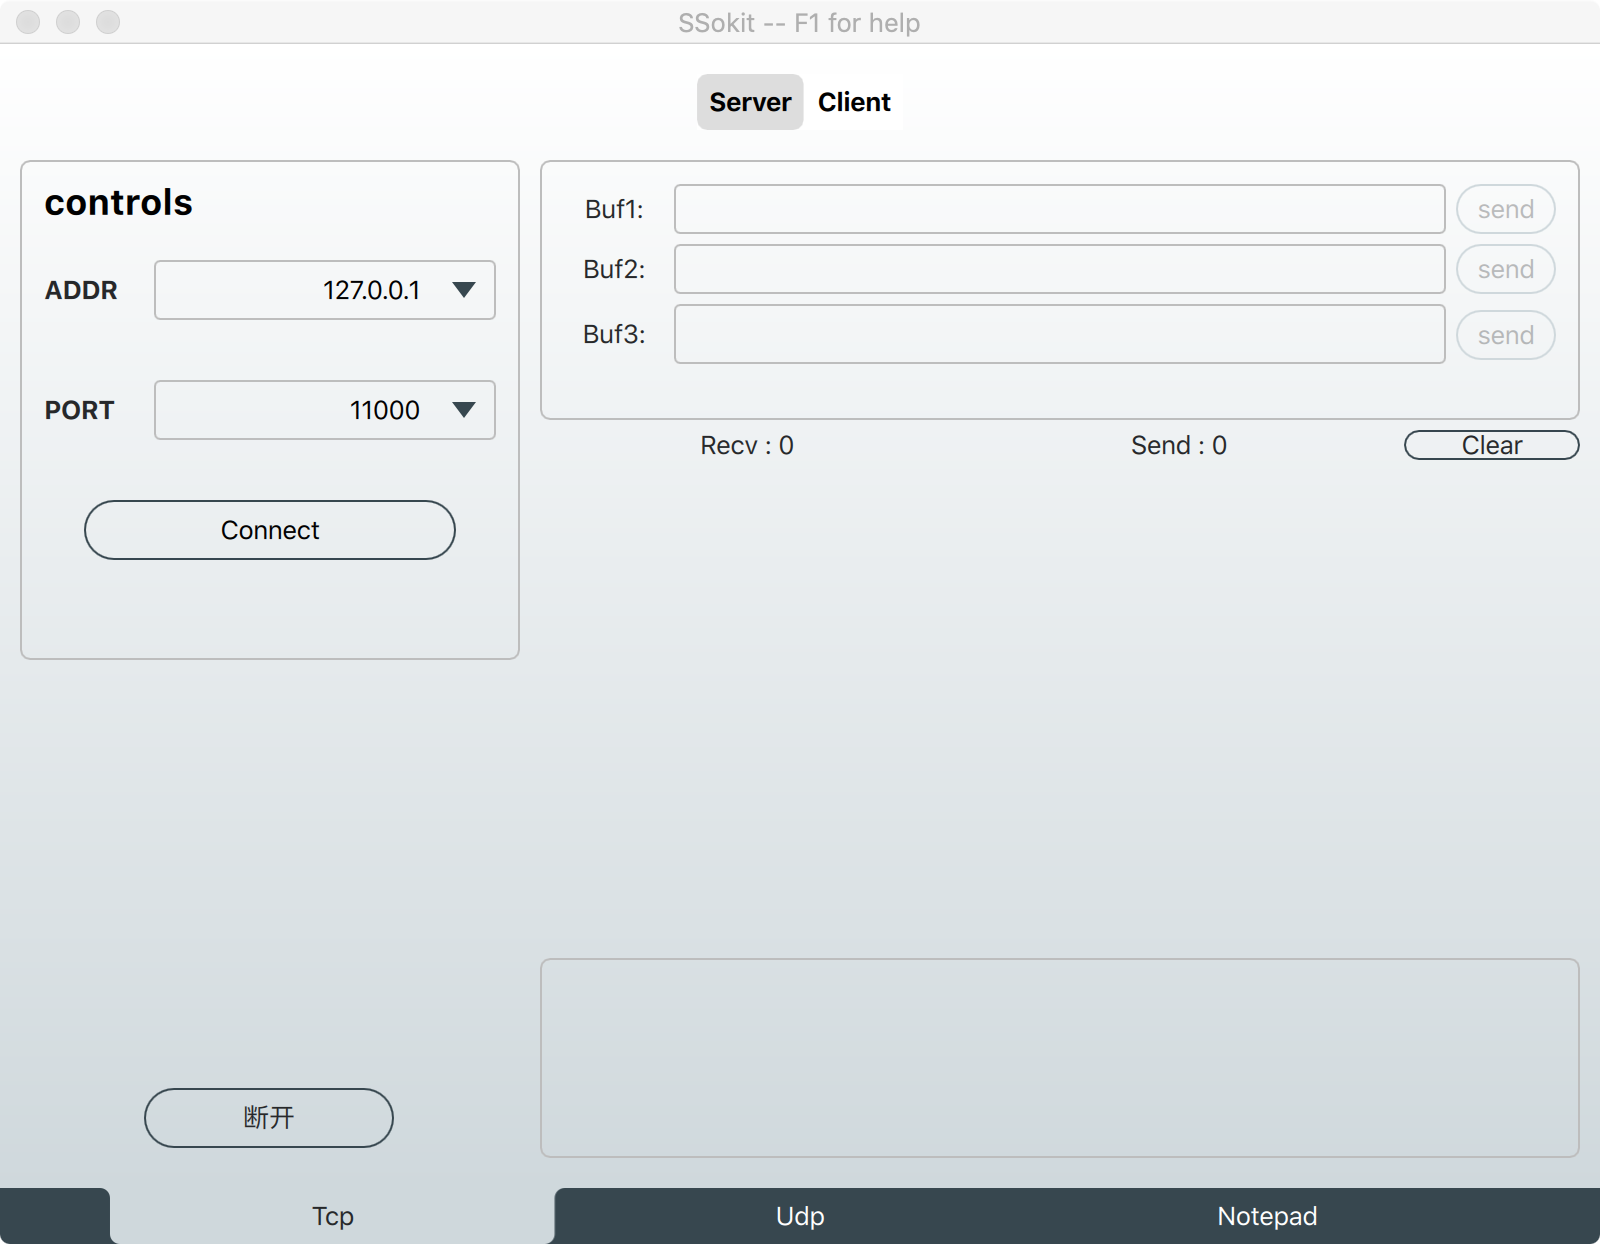
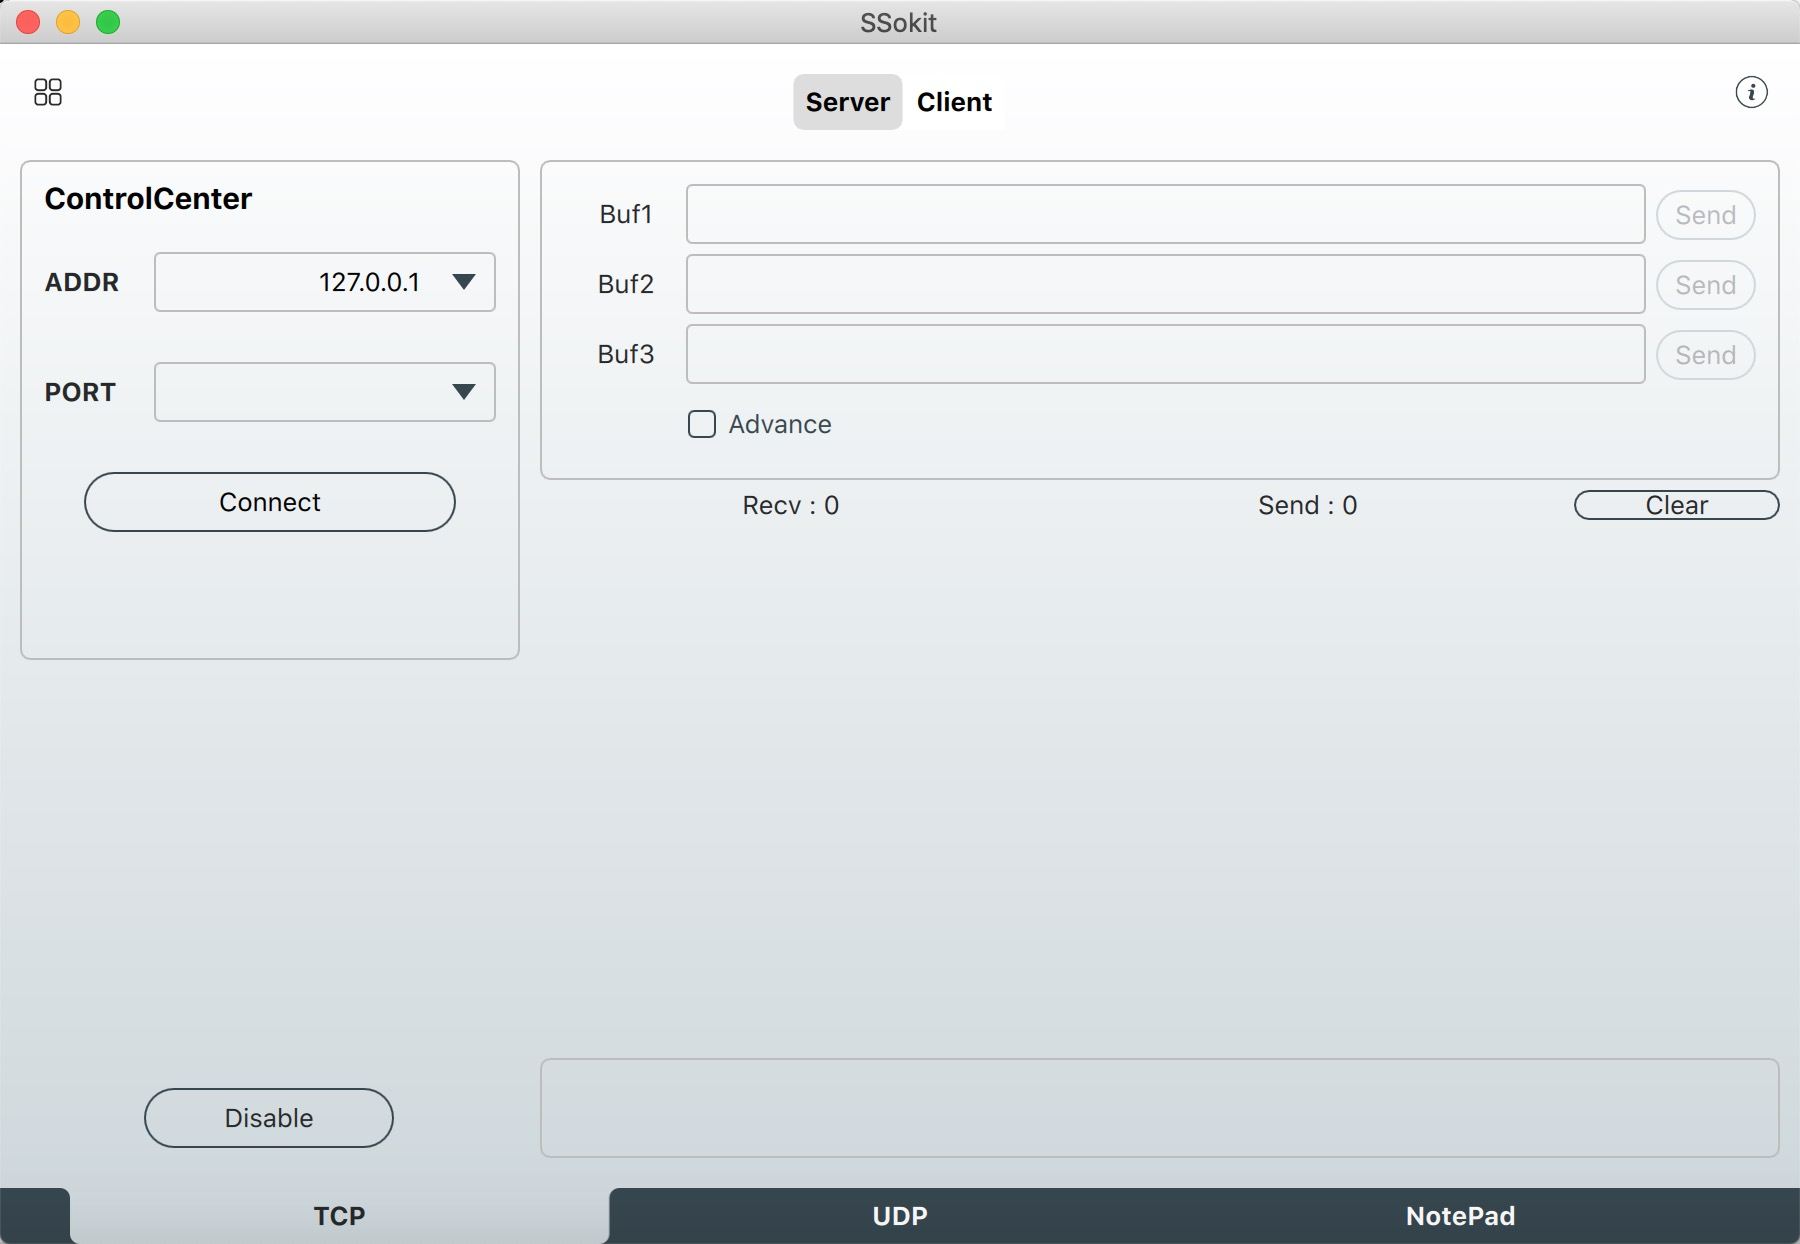
"add some introduction"

diff --git a/README.md b/README.md
@@ -3,14 +3,13 @@
 Now this support MacOS and Win system.
 
 The win version download address:
-[https://coding.net/u/rgf456/p/SSokit/git/raw/master/v1.0.3/SSokitRelease-win-1.0.3.zip](
-https://coding.net/u/rgf456/p/SSokit/git/raw/master/v1.0.3/SSokitRelease-win-1.0.3.zip)
+[https://coding.net/s/1565b4e8-f11f-4517-b14c-4c5c17614130](https://coding.net/s/1565b4e8-f11f-4517-b14c-4c5c17614130)
 
 Just download the zip file and unzip it, find SSokit.exe file,and double click then it will run ok;
 
 The mac version download address:
 
-[https://coding.net/u/rgf456/p/SSokit/git/raw/master/v1.0.4/SSokit.dmg](https://coding.net/u/rgf456/p/SSokit/git/raw/master/v1.0.4/SSokit.dmg)
+[https://coding.net/s/6257256e-9369-44e0-8a6e-d9b56db18dfa](https://coding.net/s/6257256e-9369-44e0-8a6e-d9b56db18dfa)
 
 Just download the dmg file and double click then it will run ok,also ,you can copy it to you `~/Application` dir.
 
@@ -18,13 +17,24 @@ It can used be as a Tcp/Udp server,the user interface is just like this :
 
 ![](https://github.com/rangaofei/SSokit-qmake/blob/master/img/1.png)
 
-![](https://github.com/rangaofei/SSokit-qmake/blob/master/img/3.png)
-
 or it can be used as a TcpClient/UdpClient,the user interface is just like this :
 
 ![](https://github.com/rangaofei/SSokit-qmake/blob/master/img/2.png)
 
+And now you can active the Checkbox under the bufData line,you can see an advance setting view.
+
+![](https://github.com/rangaofei/SSokit-qmake/blob/master/img/3.png)
+
+Then you can setting the headers format,here is a brief introduction
+
+`Header` It is some byte will prepend at first of your buf
+
+`Length` three styles,when `None` selected, the buf+tailer'length will not be added after the header;when `Short` selected,the buf+tailer'length will be added added after the header and its byte will be 2;when `Int` selected, the buf+tailer'length will be added after the header and its byte will be 4
+
+`Endian` just as the littleEndian and bigEndian of the Length.
+
 ![](https://github.com/rangaofei/SSokit-qmake/blob/master/img/4.png)
 
+Be happy with it.
 **This app is a advanced qml project for sokit
 [https://github.com/sinpolib/sokit](https://github.com/sinpolib/sokit)**
